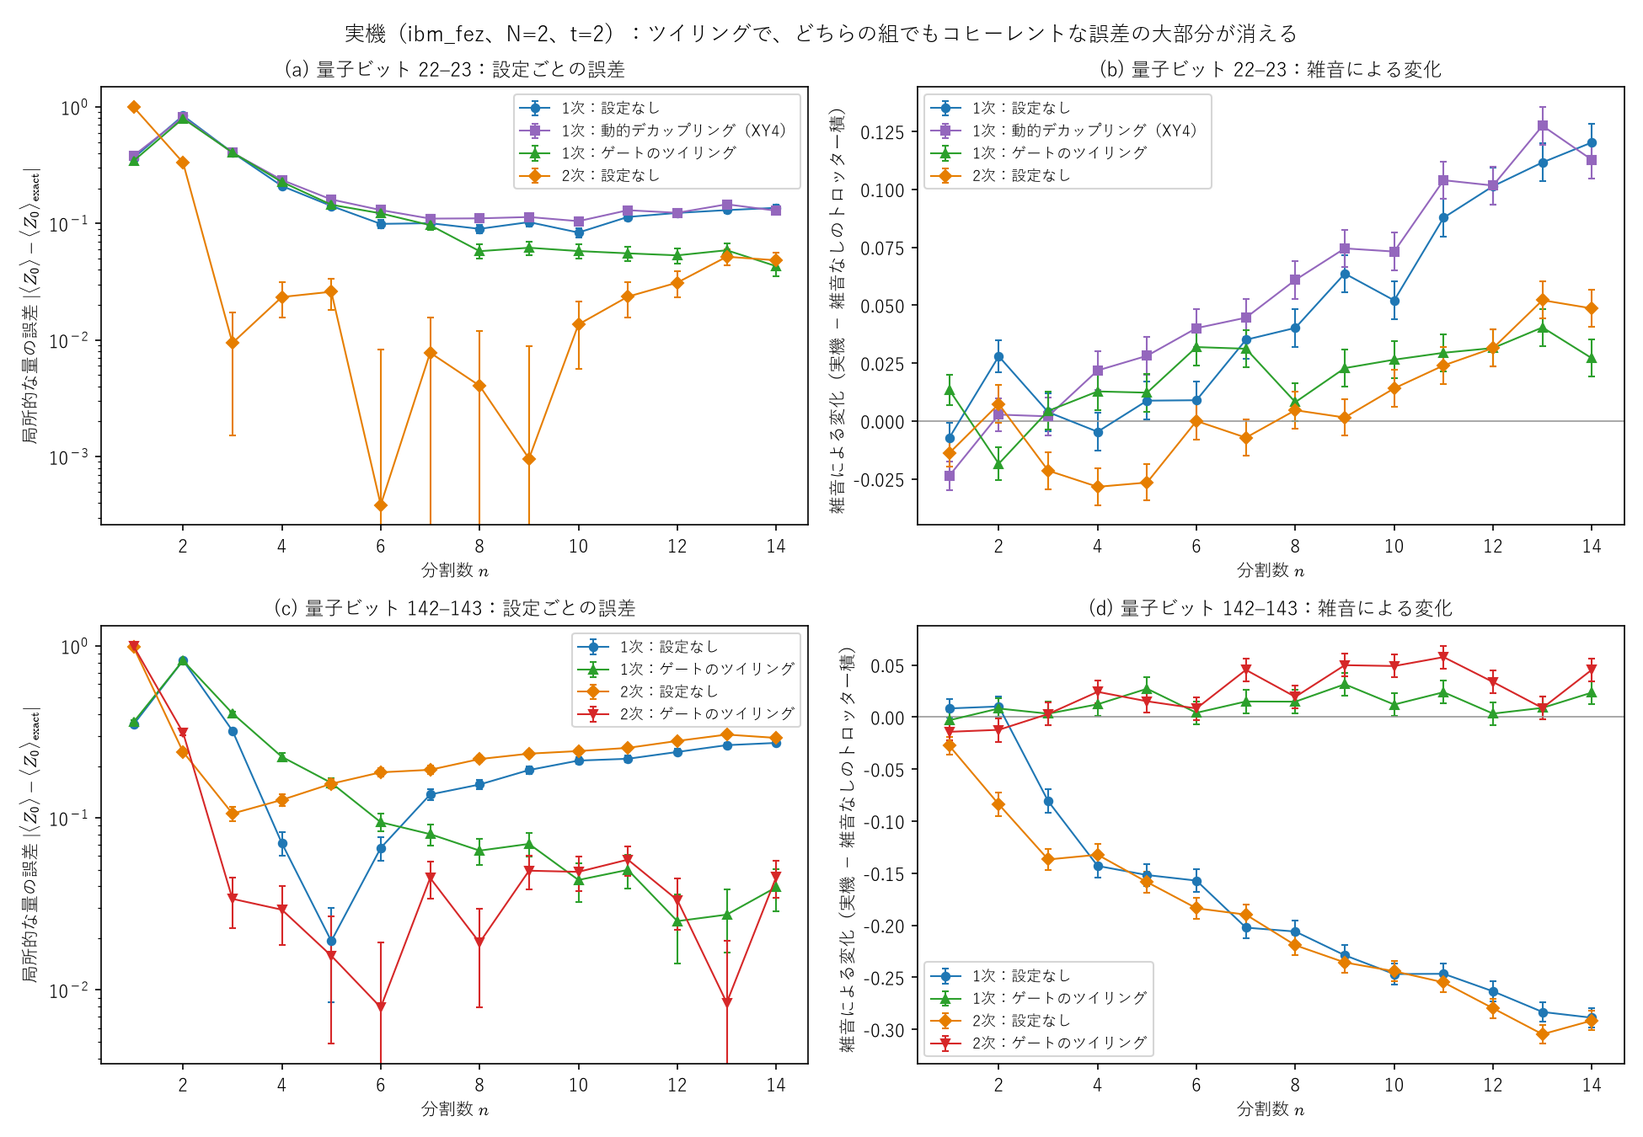
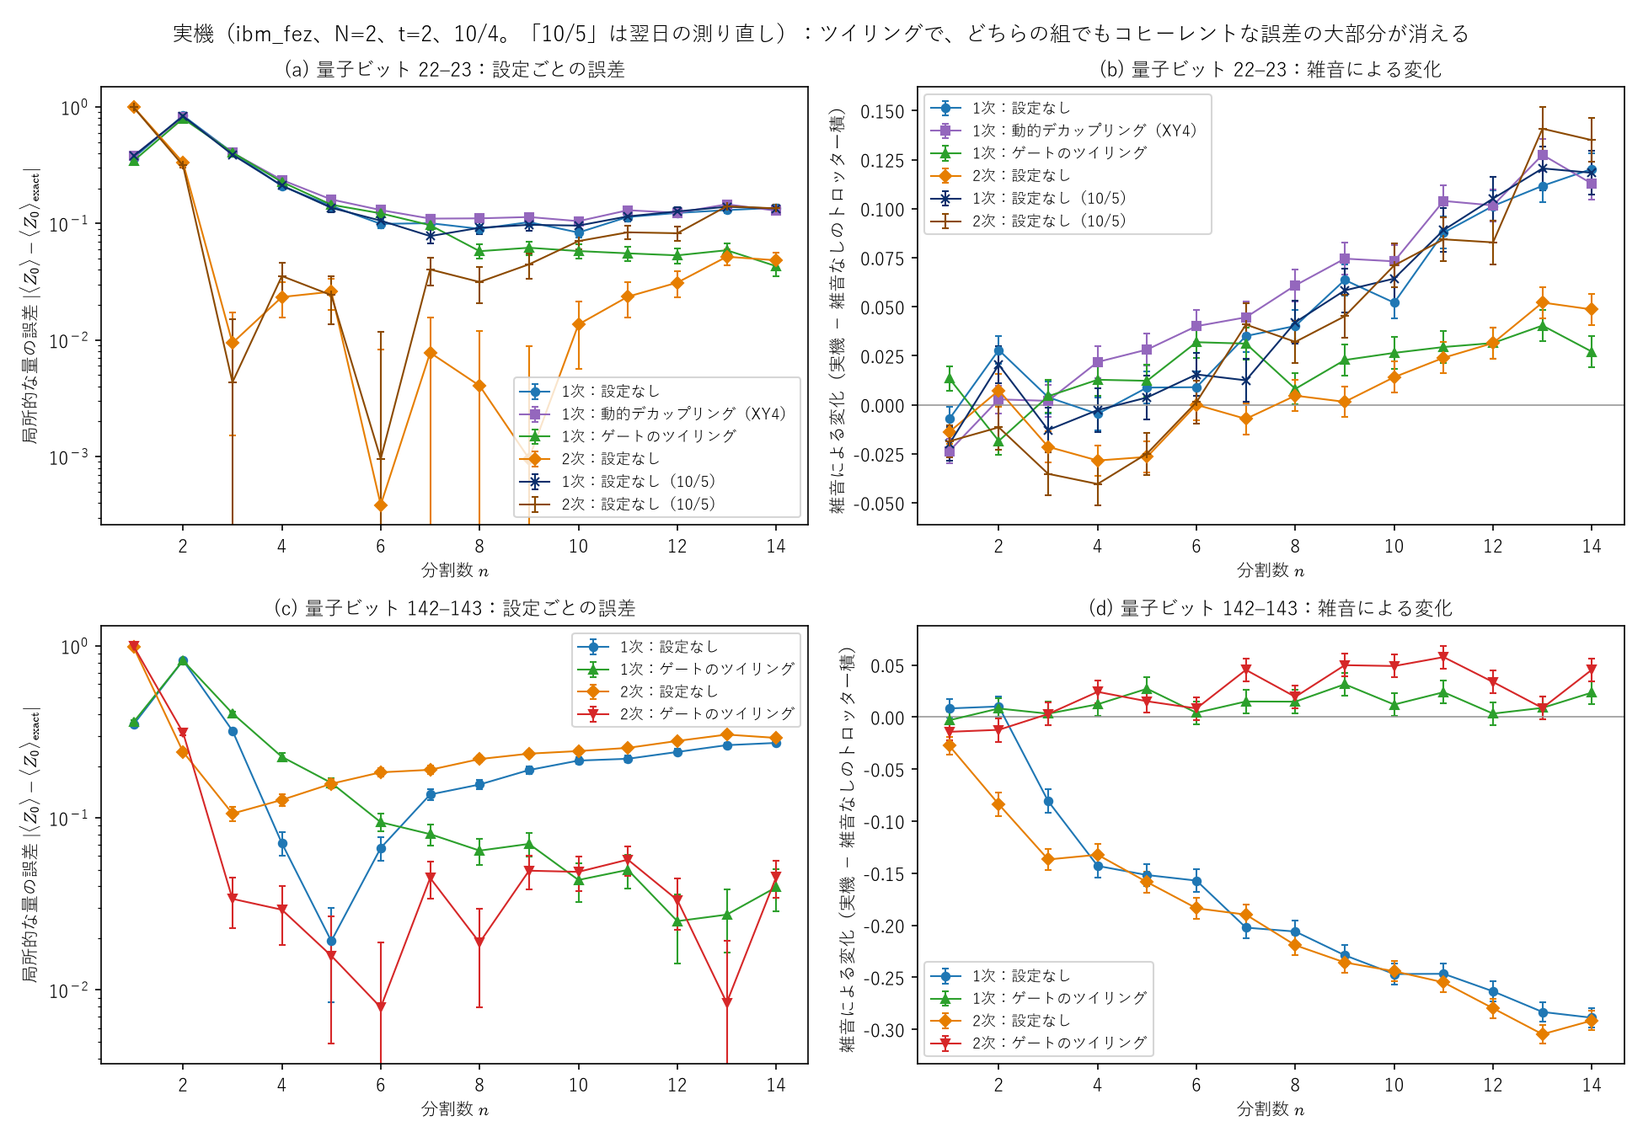
A-5: re-measure Lie and Strang back-to-back on 22-23 (next day)
Run back to back, the two orders show the same noise response
(chi2 = 10.4 for 9 points), and first order matches the previous day
(4.4 for 9). Only the single day-1 Strang job was off (160 for 9), so
the earlier claim that the symmetric form echoes out coherent error is
retracted. With that job replaced, 22-23 fits the same CZ-type coherent
model as 142-143 (chi2 = 68 for 42). Total QPU usage: 509 s.

diff --git a/experiments/a5_trotter_noise/README.md b/experiments/a5_trotter_noise/README.md
@@ -82,7 +82,9 @@ uv run python experiments/a5_trotter_noise/analyze.py experiments/a5_trotter_noi
 
 ## 実機（IBM Quantum、2026年10月4日）
 
-`hardware.py` で `ibm_fez`（Heron、量子ビット 22–23、較正の CZ 誤差 0.15%、読み出し誤差 約 0.5%）に、$N=2$・$t=2$ の回路を送り、$\langle Z_0\rangle$ を測った。読み出しの誤差は、全 0・全 1 の較正の回路で補正した。回路の変換は最適化レベル1までにし、CZ の数が $2(N-1)n$ のまま（回路がまとめられていない）ことを投げる前に確かめた。利用時間はパイロット 7 秒＋本番 65 秒×2＝137 秒。続く追加の測定（下の「雑音の正体を絞り込む」「別の量子ビットの組での再現」）を含めて、合計 **437 秒**（Open Plan の 10 分のうち）。
+`hardware.py` で `ibm_fez`（Heron、量子ビット 22–23、較正の CZ 誤差 0.15%、読み出し誤差 約 0.5%）に、$N=2$・$t=2$ の回路を送り、$\langle Z_0\rangle$ を測った。読み出しの誤差は、全 0・全 1 の較正の回路で補正した。回路の変換は最適化レベル1までにし、CZ の数が $2(N-1)n$ のまま（回路がまとめられていない）ことを投げる前に確かめた。利用時間はパイロット 7 秒＋本番 65 秒×2＝137 秒。続く追加の測定（下の「雑音の正体を絞り込む」「別の量子ビットの組での再現」「翌日の測り直し」）を含めて、合計 **509 秒**（Open Plan の 10 分のうち）。
+
+> **翌日の測り直しによる訂正（10月5日）**：下の表と 2・5 の「2次は雑音に強い」「1つの $p$ で1次と2次を説明できない」は、10月4日の2次の実行1本だけに見られた揺らぎによるもので、翌日に1次と2次を続けて測ると、雑音の効き方は同じだった（下の 15）。2次の最小の誤差が小さい（$n=6$ で 0.001 前後）ことは翌日も再現した。
 
 | | 1次（トロッター） | 2次（ストラング） |
 |---|---|---|
@@ -118,7 +120,7 @@ uv run python experiments/a5_trotter_noise/analyze.py experiments/a5_trotter_noi
 
 ![設定ごとの比較](figures/hardware_compare_N2.png)
 
-6. **ゲートのツイリングで、1次の余分な雑音の大部分（約 8 割）が消えた**。$p_{\text{eff}}$ は 0.016 から 0.0052 に下がり、2次の 0.003 に近づいた。最適な $n^*$ も 14 になり、較正の CZ 誤差からの予測（14）と一致した。ツイリングはコヒーレントな誤差だけを確率的な誤差に変える（確率的な誤差の量は変えない）ので、**1次で効いていた余分な雑音の主因は、2量子ビットゲート（CNOT の組）のコヒーレントな誤差**だと考えられる。コヒーレントな誤差はステップごとに同じ向きに積み重なる（振幅で $n$ に比例）。この組では2次の対称な形がそれを打ち消しているように見えたが、別の組では成り立たなかった（下の 9）。
+6. **ゲートのツイリングで、1次の余分な雑音の大部分（約 8 割）が消えた**。$p_{\text{eff}}$ は 0.016 から 0.0052 に下がり、2次の 0.003 に近づいた。最適な $n^*$ も 14 になり、較正の CZ 誤差からの予測（14）と一致した。ツイリングはコヒーレントな誤差だけを確率的な誤差に変える（確率的な誤差の量は変えない）ので、**1次で効いていた余分な雑音の主因は、2量子ビットゲート（CNOT の組）のコヒーレントな誤差**だと考えられる。コヒーレントな誤差はステップごとに同じ向きに積み重なる（振幅で $n$ に比例）。この組では2次の対称な形がそれを打ち消しているように見えたが、別の組では成り立たず（下の 10）、この組でも翌日には成り立たなかった（下の 15）。
 7. **動的デカップリングは効かなかった**（むしろわずかに悪化）。待ち時間中の位相のずれ（アイドル中の $Z$ の誤差）は主因ではない。2量子ビットの回路では待ち時間がほとんどないことと合う。
 8. **余分な $Z$ 回転は実在する**が、`noise_model_fits.py` の当てはめとは合わない：CX の組1回あたり、量子ビット 22 に −0.027 rad、23 に +0.010 rad（当てはめでは 0.005・0.055）。CX の組だけでもコヒーレンスは $k=12$ で 0.94（22）・0.97（23）まで落ちる。$Z$ 回転だけのモデルは、ゲートのコヒーレントな誤差の一部を近似していたにすぎないと考えられる。
 
@@ -134,7 +136,7 @@ uv run python experiments/a5_trotter_noise/analyze.py experiments/a5_trotter_noi
 | 2次・ツイリング | 6 | 0.008 ± 0.011 | +0.046 | 0.006 |
 
 9. **ツイリングの効果は再現した**：どちらの組でも、ツイリングを入れると $n=14$ の雑音による変化は +0.02〜+0.05 になり、較正の約 2〜4 倍の脱分極（$p_{\text{eff}}=0.003$〜$0.006$）で説明できる大きさにそろった。最適な $n^*$ も予測（1次 14、2次 6）に近い（12・6）。
-10. **ツイリングなしのコヒーレントな誤差は、組によって大きさも符号も違う**：22–23 では1次だけに正の変化（+0.12）、142–143 では1次・2次の両方に大きな負の変化（−0.29、$\langle Z_0\rangle$ が 0 から遠ざかる。脱分極では起こらない）。したがって「2次の対称な形はコヒーレントな誤差を打ち消す」は一般には成り立たない（22–23 では、たまたまその組の誤差の向きが打ち消される向きだったと考えられる）。較正の CZ 誤差は表示上同じ 0.15% でも、コヒーレントな誤差は組ごとに大きく違う。
+10. **ツイリングなしのコヒーレントな誤差は、組によって大きさも符号も違う**：22–23 では1次だけに正の変化（+0.12）、142–143 では1次・2次の両方に大きな負の変化（−0.29、$\langle Z_0\rangle$ が 0 から遠ざかる。脱分極では起こらない）。したがって「2次の対称な形はコヒーレントな誤差を打ち消す」は一般には成り立たない（22–23 の次数による差も、翌日の測り直しで消えた。下の 15）。較正の CZ 誤差は表示上同じ 0.15% でも、コヒーレントな誤差は組ごとに大きく違う。
 11. **実機で、局所的な量の「打ち消し合いによる偽の最適点」が出た**：142–143 の1次・設定なしの最小（$n=5$、誤差 0.019）は、トロッター部分 +0.132 と雑音部分 −0.152 の打ち消し合いで、$n=6$ では誤差が 0.07 に戻る。シミュレーションで見つけた反例（上の「ここまでの結果」4）が、実機のコヒーレントな誤差で実際に起きた例。
 
 ### コヒーレントな誤差のモデル（`coherent_fits.py`、実機の時間は使わない）
@@ -151,10 +153,31 @@ uv run python experiments/a5_trotter_noise/analyze.py experiments/a5_trotter_noi
 ![コヒーレントな誤差のモデル](figures/coherent_fits_N2.png)
 
 12. **142–143 は、単純なモデルでほぼ説明できる**：CZ 型で $\chi^2=102$／56 点（統計誤差の約 1.35 倍のずれ）。主な項は $X_t$（CZ の枠では標的側の $Z$ 位相）で、CNOT 1個あたり 0.033 rad、脱分極は $p=0.0035$（較正の約 2.3 倍）。この1つの回転が、ツイリングなしの1次・2次の −0.29 と、ツイリングありの小さな正の変化を、同じパラメータで同時に再現する。
-13. **22–23 は、どのモデルでも説明できない**：パラメータを増やしても $\chi^2$ は点の数の 3.5 倍以上で、脱分極が 0 に張りつく（過剰な当てはめの兆候）。当てはめに使っていない $Z$ の直接測定とも合わない（量子ビット 22 の傾き：実測 −0.027 rad、CZ 型の予測 −0.054、RX の誤差ありの予測 +0.31）。
-14. **1次と2次の変換後の回路は、ほとんど同じ**（深さ 172 と 174）。2次は、1次の最後の $X(d)$ を最初に移しただけで、間の回路は同じ。したがって、時間によらない（マルコフ的な）ゲートごとの誤差なら、1次と2次の雑音の効き方は似る（142–143 はそうなっている、モデルの線もほぼ重なる）。22–23 の「1次は +0.12、2次は +0.05」は、この種のモデルの外にある。候補は、2本のジョブ（1分半の間隔）の間での雑音の揺らぎ（量子ビット 22 の T2 は 50 μs と短く、二準位系の欠陥の揺らぎがありうる）か、文脈に依存する誤差。なお1次は 18 分後の動的デカップリングつきの実行（ほぼ同じ回路）でも同じ値だったので、1次の値は再現している。
+13. **22–23（10/4 の2次を含めた場合）は、どのモデルでも説明できない**（→ 外れた1本を除くと説明できた。下の 17）：パラメータを増やしても $\chi^2$ は点の数の 3.5 倍以上で、脱分極が 0 に張りつく（過剰な当てはめの兆候）。当てはめに使っていない $Z$ の直接測定とも合わない（量子ビット 22 の傾き：実測 −0.027 rad、CZ 型の予測 −0.054、RX の誤差ありの予測 +0.31）。
+14. **1次と2次の変換後の回路は、ほとんど同じ**（深さ 172 と 174）。2次は、1次の最後の $X(d)$ を最初に移しただけで、間の回路は同じ。したがって、時間によらない（マルコフ的な）ゲートごとの誤差なら、1次と2次の雑音の効き方は似る（142–143 はそうなっている、モデルの線もほぼ重なる）。22–23 の「1次は +0.12、2次は +0.05」は、この種のモデルの外にある。候補は（翌日の測り直しで前者と分かった。下の 15）、2本のジョブ（1分半の間隔）の間での雑音の揺らぎ（量子ビット 22 の T2 は 50 μs と短く、二準位系の欠陥の揺らぎがありうる）か、文脈に依存する誤差。なお1次は 18 分後の動的デカップリングつきの実行（ほぼ同じ回路）でも同じ値だったので、1次の値は再現している。
 
-**未解決と次の一歩**：22–23 で1次と2次を続けて測り直す（各 8000 ショットで約 72 秒）。時間によらないモデルの予測は「1次と2次はほぼ同じ雑音の変化（$n=14$ で +0.09 前後）」。合えば前回の2次の実行は揺らぎ、合わなければ文脈に依存する誤差を考える必要がある。別の日の再現も残っている。
+### 翌日の測り直し（10月5日、量子ビット 22–23）
+
+14 を確かめるため、22–23 で1次と2次を続けて測った（各 8000 ショット、ジョブの間隔 約 1 分、利用時間 36＋36＝72 秒）。較正の値は前日から変わっていた（CZ 誤差 0.15% → 0.19%、量子ビット 22 の T2 50 → 127 μs）。**測る前の予測**：時間によらないゲートごとの誤差なら、1次と2次の雑音による変化は $n$ の大きいところでほぼ同じ。
+
+| $n=6$〜$14$ の雑音による変化の比較 | $\chi^2$（9 点、統計誤差の範囲で合えば 9 前後） |
+|---|---|
+| 10/5 の1次 対 10/5 の2次 | **10.4**（同じ） |
+| 10/5 の1次 対 10/4 の1次 | **4.4**（日をまたいで再現） |
+| 10/5 の2次 対 10/4 の2次 | 160（10/4 の2次だけが外れ） |
+| 10/4 の1次 対 10/4 の2次 | 202 |
+
+| 量子ビット 22–23（10/5） | 実機の $n^*$ | 最小の誤差 | $n=14$ の雑音による変化 | $p_{\text{eff}}$ |
+|---|---|---|---|---|
+| 1次・設定なし | 7 | 0.078 ± 0.011 | +0.118 | 0.016 |
+| 2次・設定なし | 6 | 0.001 ± 0.011 | +0.135 | 0.012 |
+
+15. **予測どおり、1次と2次の雑音の効き方は同じだった**。10/4 の2次の実行（1本）だけが、$n\ge8$ で雑音による変化が小さく外れていた。1次の値は、10/4 の2本（設定なし、18 分後の動的デカップリングつき）と 10/5 の計3本で一致したので、外れていたのは 10/4 の2次のほうである。**「2次の対称な形がコヒーレントな誤差を打ち消す」という 5・6 の解釈は誤り**で、1回のジョブの中での雑音の揺らぎ（原因は不明。量子ビット 22 の T2 が日によって 2.5 倍変わるような揺らぎがある）を、回路の構造の効果と取り違えていた。1回の実行で結論を出さない、という教訓。
+16. **2次の最小の誤差が小さいことは再現した**（$n=6$ で 0.001）。これは雑音への強さではなく、トロッター誤差そのものが小さい（$n=6$ で 0.0005）ためで、$n$ が小さいので雑音もまだ小さい。
+17. **外れた1本を 10/5 の2本に置き換えると、22–23 も 142–143 と同じ CZ 型のモデルで説明できる**（`coherent_fits.py` の「22–23（2日目）」、ツイリングありは 10/4 の1次）：CZ 型で $\chi^2=68$／42 点（1点あたり 1.6、142–143 は 1.8）。パラメータを増やしても 67（一般）・63（RX の誤差つき）とほとんど改善しない。主な項は $Z_c=-0.017$、$X_t=+0.018$、$Z_cX_t=-0.011$ rad、$p=0.0046$（較正の約 2.4 倍）。2組とも「CNOT ごとの小さなコヒーレントな回転＋較正の 2〜3 倍の脱分極」という同じ形で説明でき、違うのは回転の向きと大きさだけ。
+18. ただし、**$Z$ の直接測定とは、まだ合わない**（量子ビット 22 の傾き：CZ 型の予測 −0.068 rad、実測 −0.027 rad（10/4））。直接測定の回路には RZ も RX もないので、誤差が周りのゲートによって変わる（文脈に依存する）可能性や、10/4 の測定時の揺らぎが残る。
+
+**未解決と次の一歩**：$Z$ の直接測定とモデルのずれ。$N=3,4$ での再現。実機の枠の残りは約 90 秒（28 日ごとに 10 分）。
 
 ## 大きな $N$：$n^*$ は $N=12$ まで変わらない（`aer_check.py`、`results/aer_check_N4.csv`・`N10-12.csv`）
 

diff --git a/docs/research_ideas.md b/docs/research_ideas.md
@@ -106,10 +106,12 @@
   - 実数の状態で $c_1$ が小さく見えたのも、調べに使った $N=3$・$t=2$ が、実数の積状態に共通する $c_1$ の零点の近くだったという偶然（他の時刻・大きさでは小さくない）。
   - 指標ごとの指数：トレース距離で $n^*\propto p^{-1/(k+1)}$、不忠実度で $p^{-1/(2k+1)}$、局所的な量（この模型）で $p^{-1/3}$ を確認。Knee–Munro の $p^{-1/2}$（距離）とここの $p^{-1/3}$（不忠実度）が、指標の違いとしてつながった。
   - **実機（2026年10月4日、ibm_fez、N=2、利用 137 秒）**：2次は1次より約 10 倍正確（最小誤差 0.0004 対 0.084）。較正の CZ 誤差からの予測 $n^*$ は、2次では当たり、1次では外れた（14 対 10）。1次と2次は1つの脱分極の強さで説明できず（実効値が 0.016 と 0.003）、較正データからの雑音モデル（T1・T2 込み）や回転角のずれでも説明できない。量子ビットごとの余分な $Z$ 回転で一部は説明できる。
-  - **雑音の絞り込み（同じ日、累計の利用 291 秒）**：1次に**ゲートのツイリング**を入れると、余分な雑音の約 8 割が消えた（$p_{\text{eff}}$ 0.016 → 0.0052、$n^*$ は較正からの予測どおり 14）。**動的デカップリング（XY4）は効かない**。主因は2量子ビットゲートのコヒーレントな誤差で、1次ではステップごとに積み重なり、2次の対称な形では打ち消し合うと考えられる。余分な $Z$ 回転は直接の測定で実在した（CX の組1回あたり −0.027・+0.010 rad）が、当てはめの値とは合わない。
-  - **別の量子ビット（142–143）での再現（累計 437 秒）**：ツイリングの効果は再現（どちらの組・次数でも、雑音が較正の 2〜4 倍の脱分極にそろい、$n^*$ は予測に近い）。一方、ツイリングなしのコヒーレントな誤差は組ごとに大きさも符号も違い、142–143 では2次も1次と同じく大きく崩れた（$n=14$ で −0.29）。「2次が打ち消す」は 22–23 だけの偶然。142–143 の1次では、トロッター部分と雑音部分の**打ち消し合いによる偽の最適点**（$n=5$）が実機で出た。
+  - **雑音の絞り込み（同じ日、累計の利用 291 秒）**：1次に**ゲートのツイリング**を入れると、余分な雑音の約 8 割が消えた（$p_{\text{eff}}$ 0.016 → 0.0052、$n^*$ は較正からの予測どおり 14）。**動的デカップリング（XY4）は効かない**。主因は2量子ビットゲートのコヒーレントな誤差で、1次ではステップごとに積み重なり、2次の対称な形では打ち消し合うと考えた（→ 翌日の測り直しで否定）。余分な $Z$ 回転は直接の測定で実在した（CX の組1回あたり −0.027・+0.010 rad）が、当てはめの値とは合わない。
+  - **別の量子ビット（142–143）での再現（累計 437 秒）**：ツイリングの効果は再現（どちらの組・次数でも、雑音が較正の 2〜4 倍の脱分極にそろい、$n^*$ は予測に近い）。一方、ツイリングなしのコヒーレントな誤差は組ごとに大きさも符号も違い、142–143 では2次も1次と同じく大きく崩れた（$n=14$ で −0.29）。「2次が打ち消す」は一般には成り立たない（22–23 でも、翌日の測り直しで1回の揺らぎと分かった）。142–143 の1次では、トロッター部分と雑音部分の**打ち消し合いによる偽の最適点**（$n=5$）が実機で出た。
   - **コヒーレントな誤差のモデル（`coherent_fits.py`）**：ツイリングなし・ありを同じパラメータで同時に当てはめ。142–143 は CZ 型（主に標的側の位相、CNOT 1個あたり 0.033 rad、$p=0.0035$）で $\chi^2=102$／56 点とほぼ説明できた。22–23 はどのモデルでも説明できず、Z の直接測定とも合わない。1次と2次の変換後の回路はほぼ同じ（深さ 172 と 174）なので、22–23 の次数による差は、時間によらないゲートごとの誤差の外（ジョブの間の揺らぎか、文脈に依存する誤差）にある。
-- **次の一歩**：22–23 で1次と2次を続けて測り直す（約 72 秒、予測は「ほぼ同じ」）。別の日の再現。記事の下書き（`experiments/a5_trotter_noise/article_draft.md`）に実機の結果を加える。
+  - **翌日の測り直し（10月5日、累計 509 秒）**：22–23 で1次と2次を続けて測ると、予測どおり雑音の効き方は同じ（$\chi^2=10.4$／9 点）。1次は前日と一致（4.4／9 点）し、外れていたのは 10/4 の2次の1本だけ（160／9 点）。**「2次の対称な形がコヒーレントな誤差を打ち消す」は誤りで、1回のジョブの揺らぎを回路の構造の効果と取り違えていた**。2次の最小誤差が小さいこと（トロッター誤差が小さいため）は再現。外れた1本を除くと、22–23 も CZ 型で説明できる（$\chi^2=68$／42 点）。残る問題は、Z の直接測定とモデルのずれ（量子ビット 22：予測 −0.068、実測 −0.027 rad）。
+  - **まとめ（実機）**：(1) 較正データの CZ 誤差からの $n^*$ の予測は、ゲートのツイリングを入れると当たる（2組・2次数）。(2) ツイリングなしでは、CNOT ごとの小さなコヒーレントな回転が効き、その向きと大きさは組ごとに違う（較正の数値には出ない）。(3) 局所的な量の偽の最適点が実機で出た。(4) 結論は、くり返して測るまで出さない。
+- **次の一歩**：Z の直接測定とモデルのずれの理由。$N=3,4$ での再現（実機の枠の回復後）。記事の下書き（`experiments/a5_trotter_noise/article_draft.md`）を翌日の結果に合わせて直す。
 
 ## B. 形式証明
 
